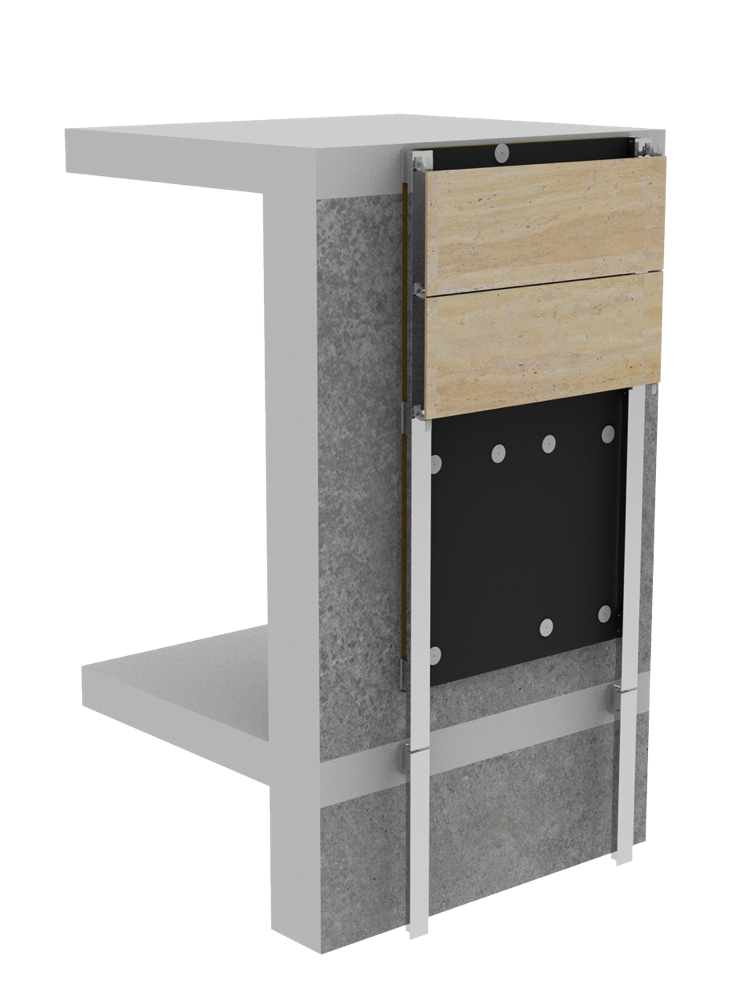
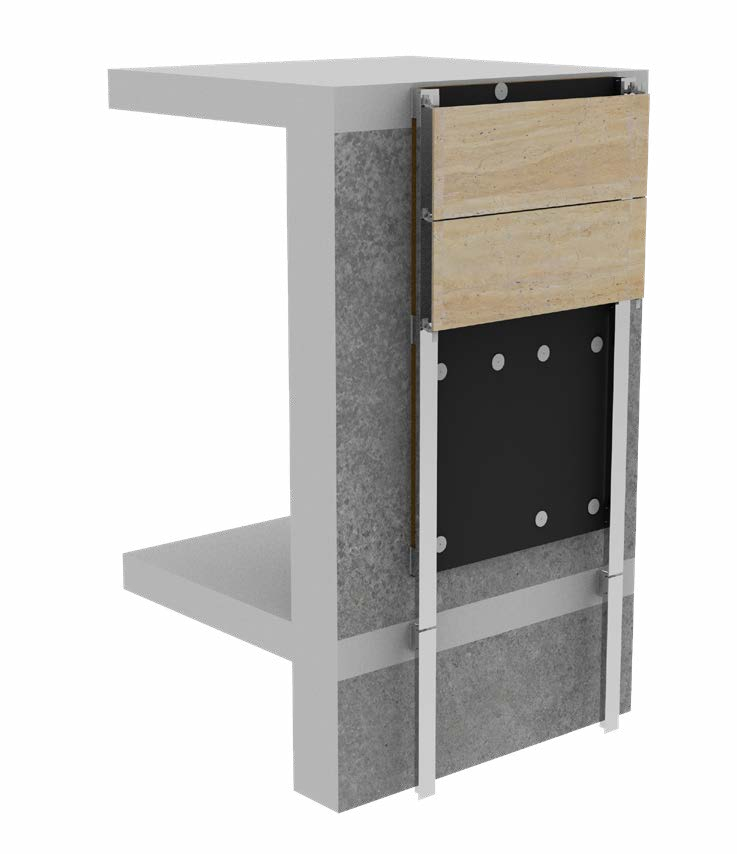
Update installation 3D diagram to brochure V20 wall section
Replace install-diagram.png with V20's updated transparent render and
align the callouts to the new 6-component scheme (V20 drops the separate
air-cavity callout): panel, L-angle panel connector, sub-framing,
insulation, fixation substrate, L-angle connector. Reposition the 6 pins
and update the components list accordingly.

Changed region(s): [[0.0904, 0.0609, 0.9342, 0.9438], [0.0904, 0.6089, 0.5123, 0.9742]]

diff --git a/index.html b/index.html
@@ -640,14 +640,13 @@
       <figure class="install__diagram">
         <figcaption class="install__caption">Typical wall section</figcaption>
         <div class="install__diagram-stage">
-          <img src="images/install-diagram.png" alt="CLADLITE™ installation assembly — section showing panel, L-angles, air cavity, sub-framing, insulation, and concrete substrate">
-          <span class="install__pin" style="left:69.6%; top:28%;">1</span>
-          <span class="install__pin" style="left:52%; top:22%;">2</span>
-          <span class="install__pin" style="left:52%; top:33%;">3</span>
-          <span class="install__pin" style="left:54.8%; top:50%;">4</span>
-          <span class="install__pin" style="left:72.9%; top:55%;">5</span>
-          <span class="install__pin" style="left:41.1%; top:65%;">6</span>
-          <span class="install__pin" style="left:46.6%; top:78%;">7</span>
+          <img src="images/install-diagram.png" alt="CLADLITE™ installation assembly — section showing panel, L-angle connectors, sub-framing, insulation, and concrete substrate">
+          <span class="install__pin" style="left:66%; top:17%;">1</span>
+          <span class="install__pin" style="left:57%; top:10.5%;">2</span>
+          <span class="install__pin" style="left:53%; top:50%;">3</span>
+          <span class="install__pin" style="left:66%; top:46%;">4</span>
+          <span class="install__pin" style="left:28%; top:60%;">5</span>
+          <span class="install__pin" style="left:50%; top:82%;">6</span>
         </div>
       </figure>
 
@@ -656,11 +655,10 @@
         <ol class="install__list">
           <li><span>1</span><div><strong>CLADLITE™ panel</strong><em>Lightweight composite cladding</em></div></li>
           <li><span>2</span><div><strong>L-angle panel connector</strong><em>Patented BFG fixing</em></div></li>
-          <li><span>3</span><div><strong>1″ (25 mm) air space</strong><em>Ventilation cavity</em></div></li>
-          <li><span>4</span><div><strong>Sub-framing system</strong><em>Aluminium or steel</em></div></li>
-          <li><span>5</span><div><strong>Insulation</strong><em>Project-specific</em></div></li>
-          <li><span>6</span><div><strong>Fixation substrate</strong><em>Concrete / masonry</em></div></li>
-          <li><span>7</span><div><strong>L-angle wall connector</strong><em>Continuous run</em></div></li>
+          <li><span>3</span><div><strong>Sub-framing system</strong><em>Aluminium or steel</em></div></li>
+          <li><span>4</span><div><strong>Insulation material</strong><em>Project-specific</em></div></li>
+          <li><span>5</span><div><strong>Fixation substrate</strong><em>Concrete / masonry</em></div></li>
+          <li><span>6</span><div><strong>L-angle connector</strong><em>Continuous run</em></div></li>
         </ol>
         <a href="#contact" class="install__cta">Need engineering support? <span aria-hidden="true">→</span></a>
       </div>